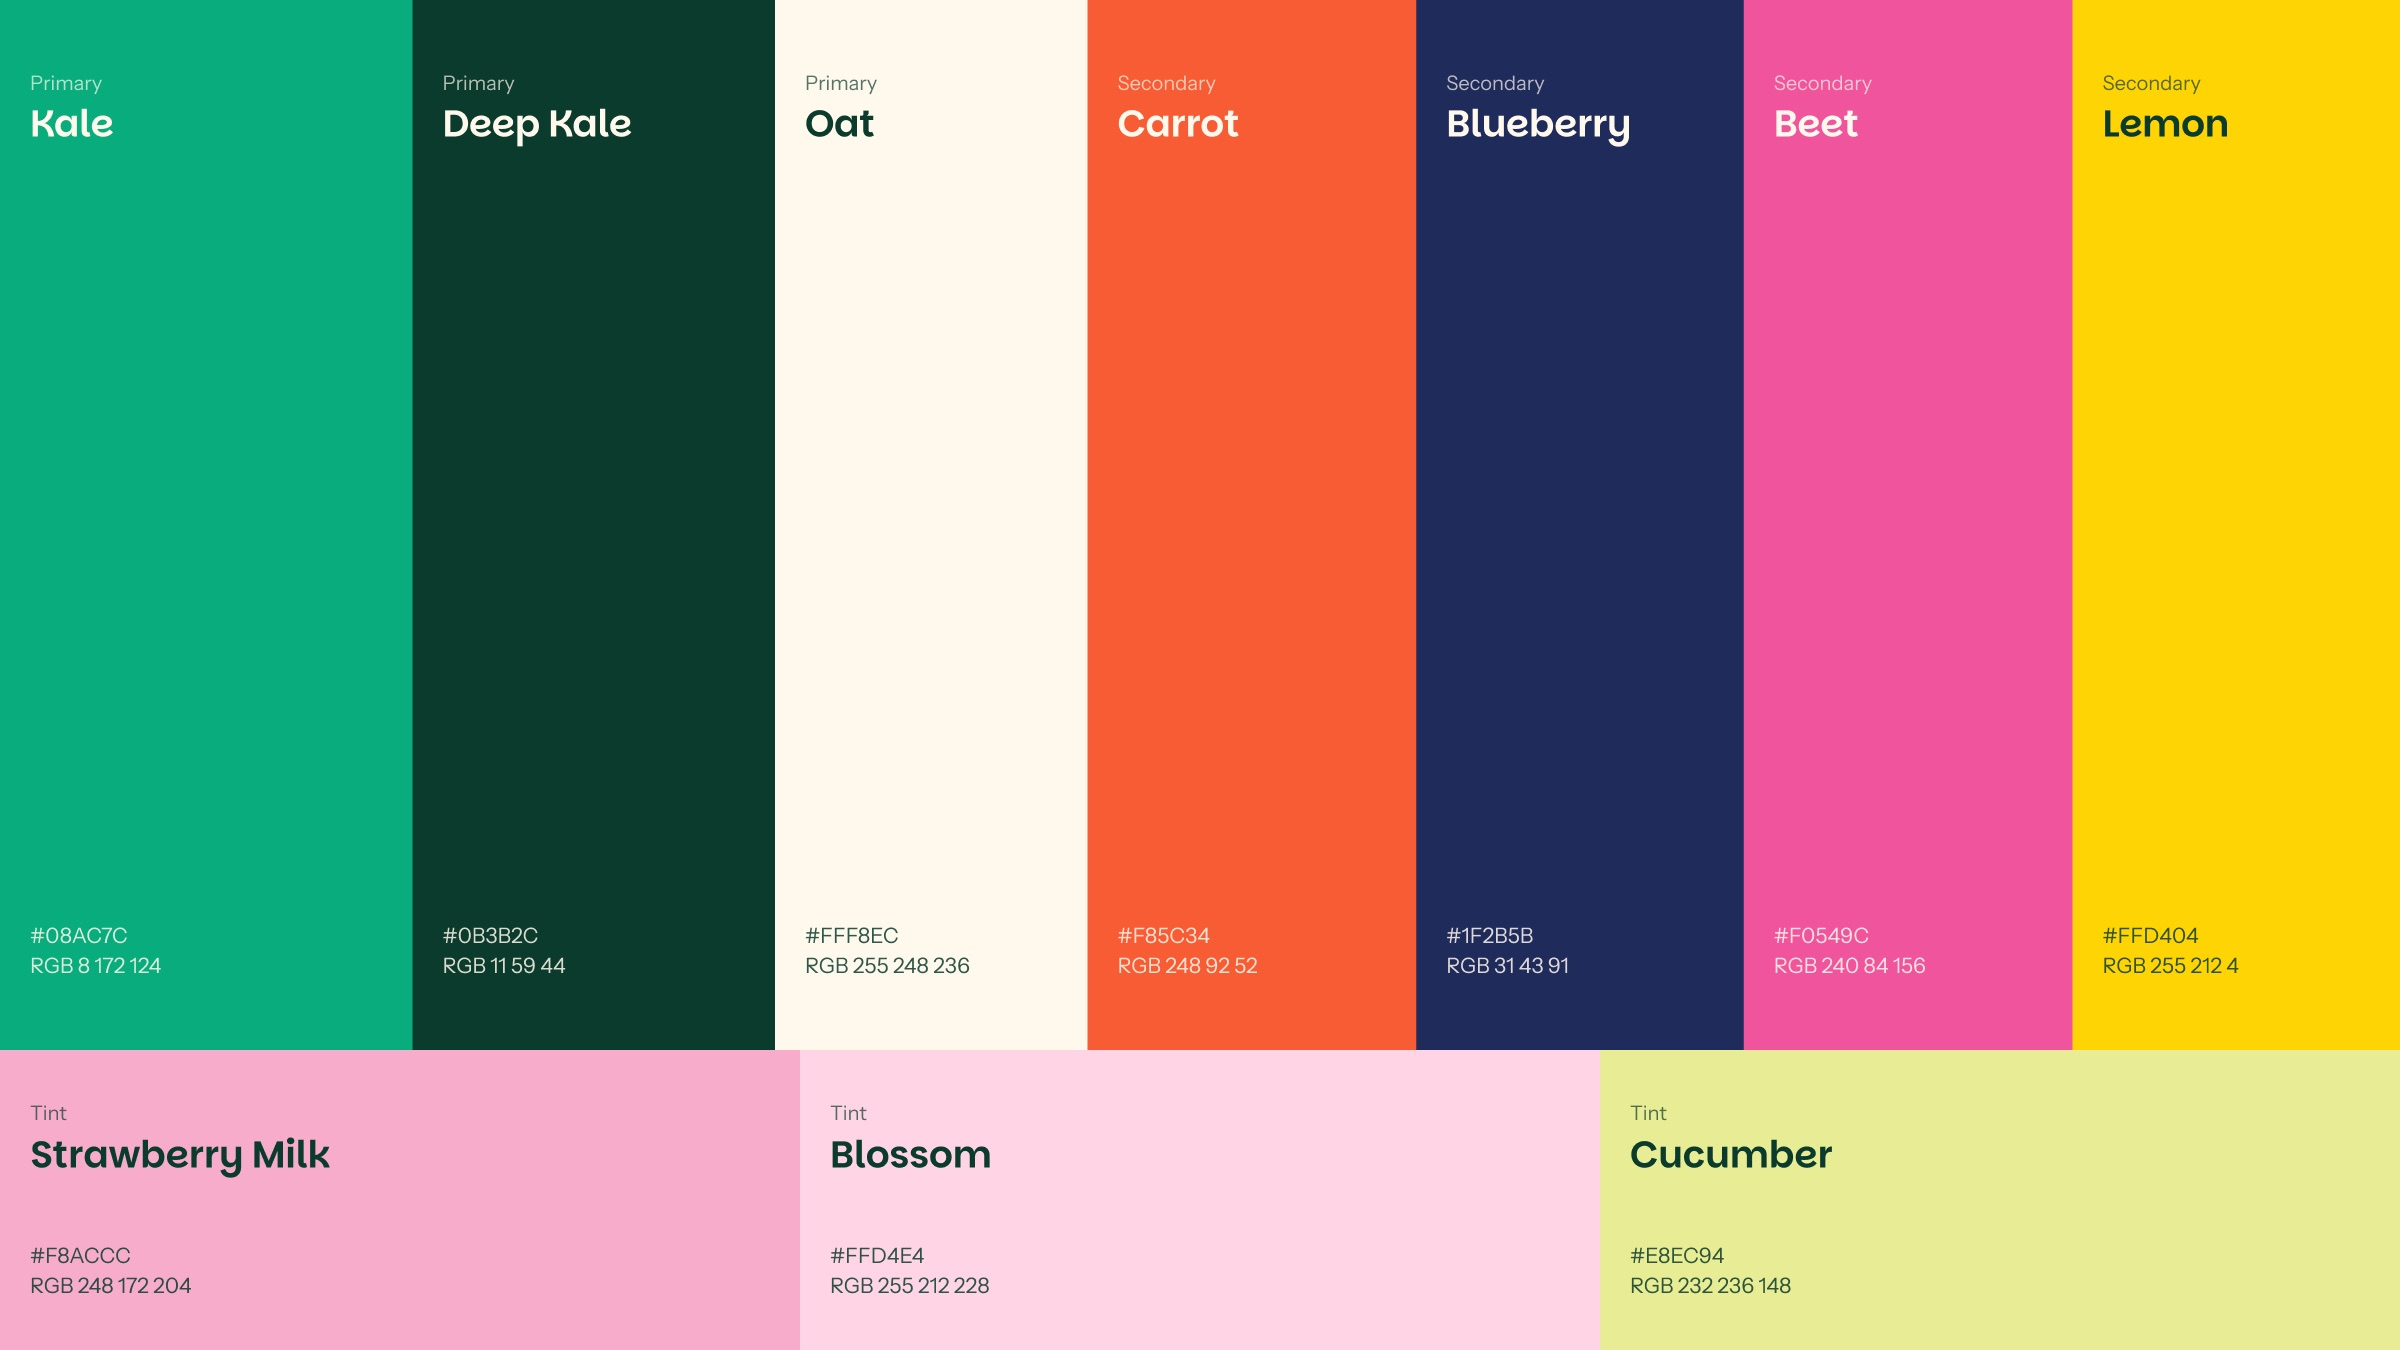
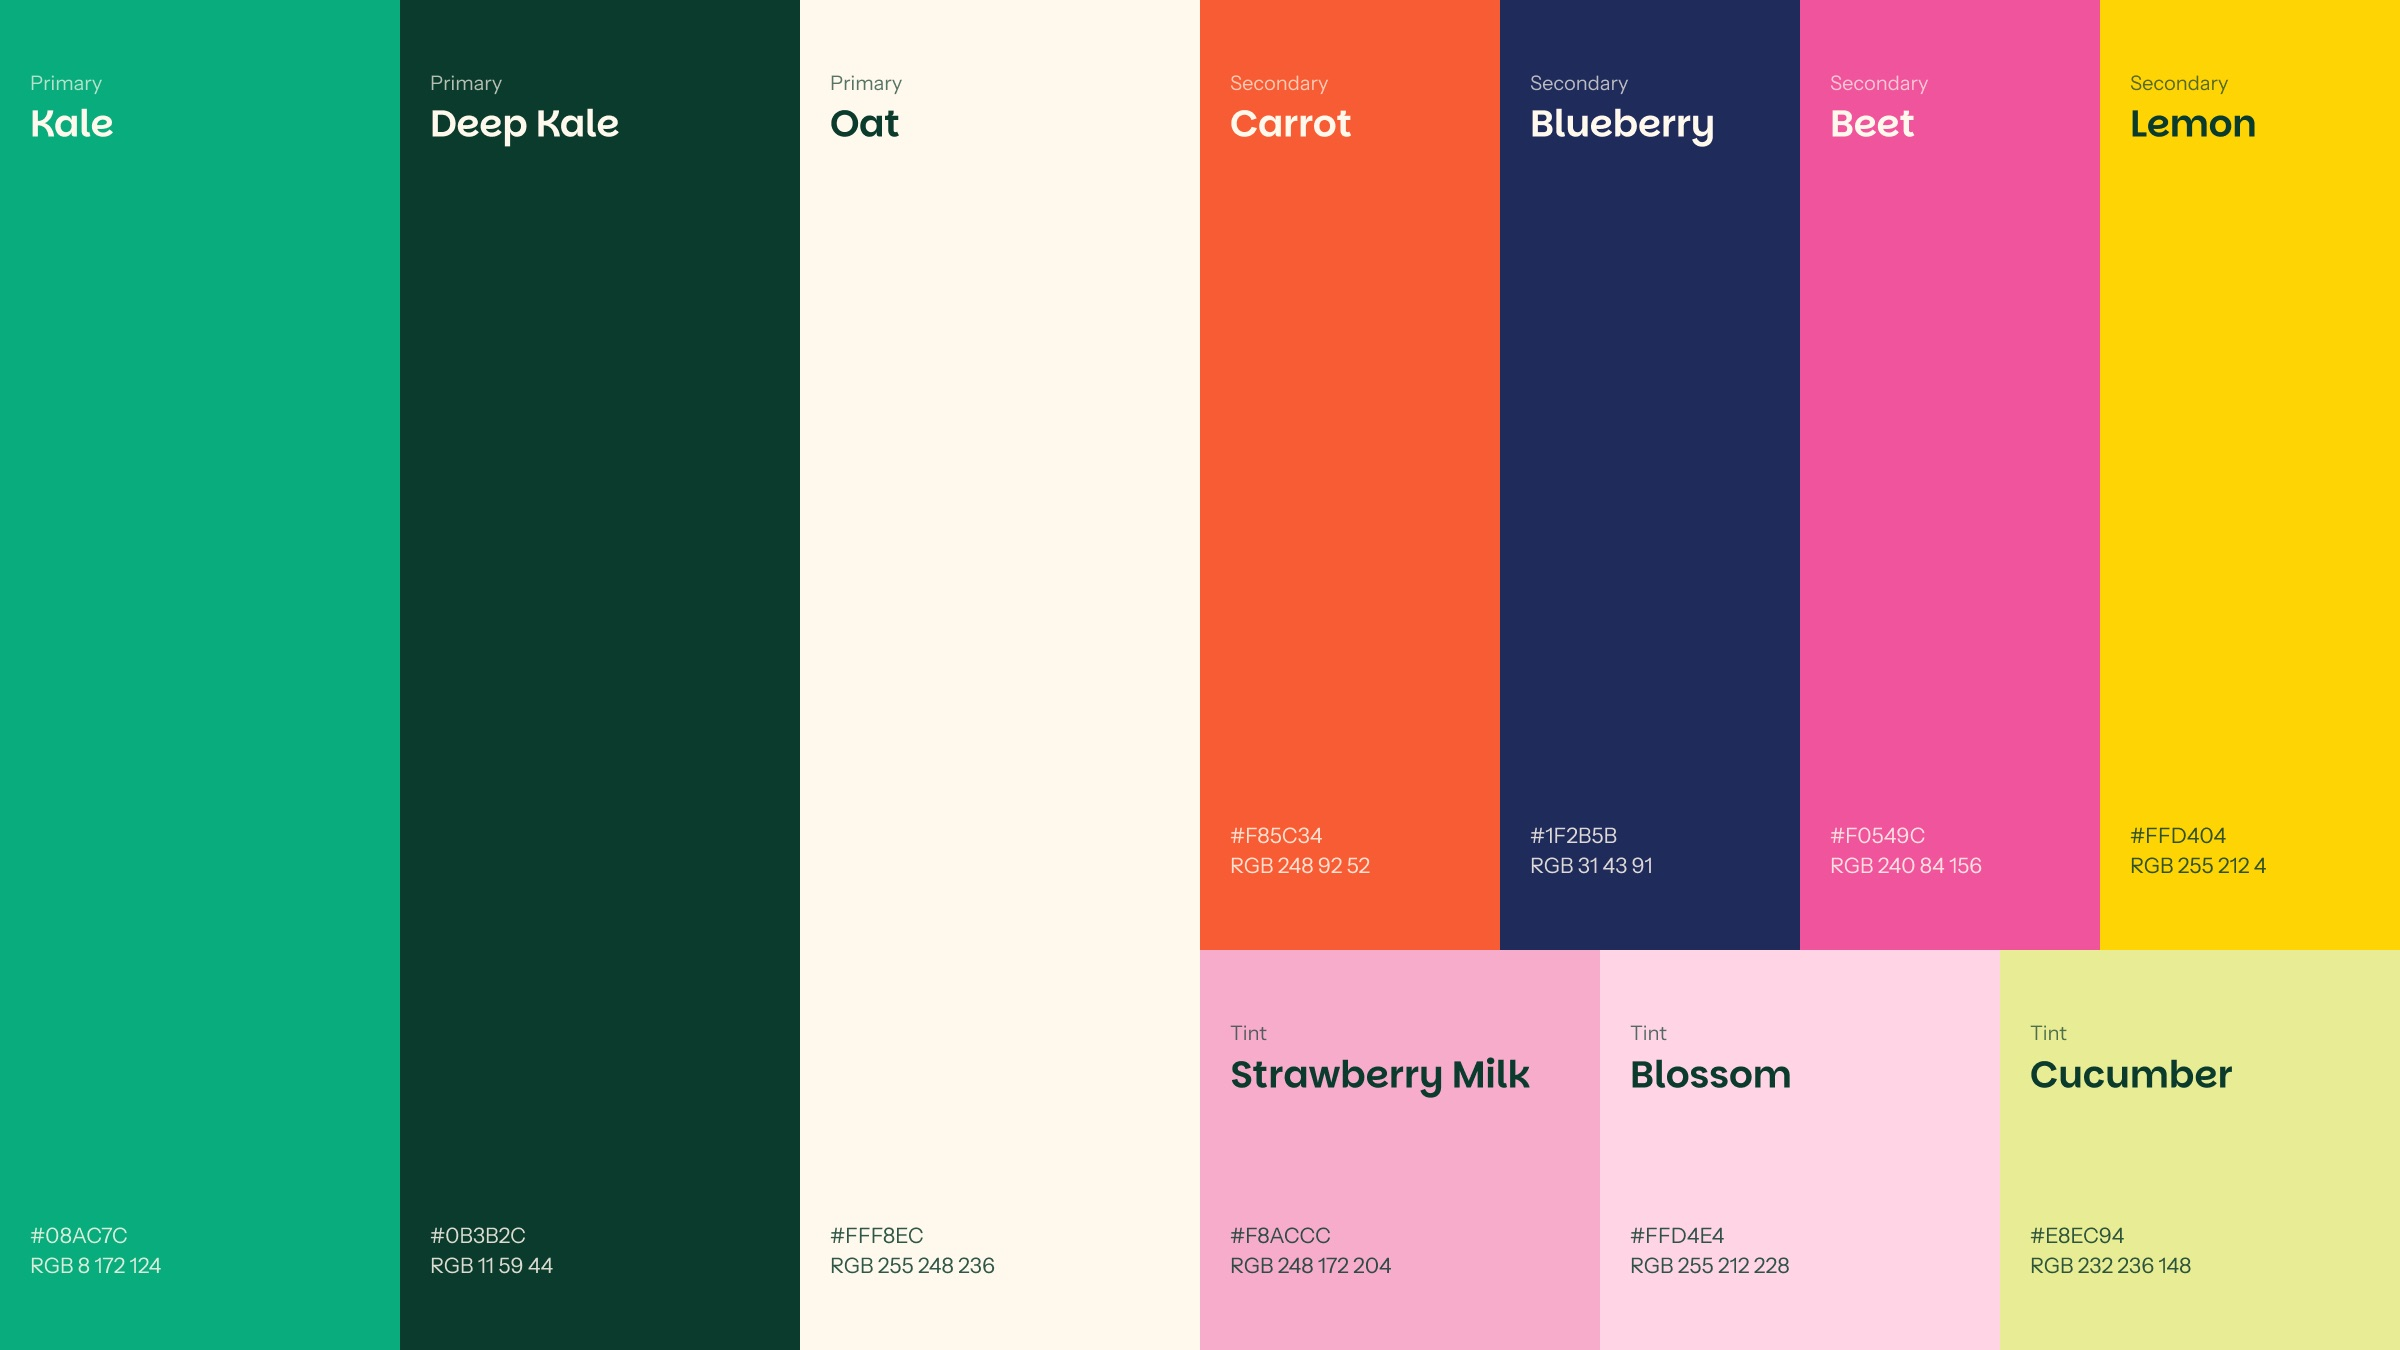
Freshly: three-tier color layout

diff --git a/freshly.html b/freshly.html
@@ -35,7 +35,7 @@
     <img class="shot" src="img/freshly-02.jpg" alt="Freshly" loading="lazy" width="2400" height="1350">
     <img class="shot" src="img/freshly-03.jpg" alt="Freshly" loading="lazy" width="2400" height="1350">
     <img class="shot" src="img/freshly-thumb.jpg" alt="Freshly" loading="lazy" width="2400" height="1350">
-    <img class="shot" src="img/freshly-05.jpg?v=20261115a" alt="Freshly" loading="lazy" width="2400" height="1350">
+    <img class="shot" src="img/freshly-05.jpg?v=20261115b" alt="Freshly" loading="lazy" width="2400" height="1350">
     <img class="shot" src="img/freshly-06.jpg" alt="Freshly" loading="lazy" width="2400" height="1350">
     <img class="shot" src="img/freshly-07.jpg" alt="Freshly" loading="lazy" width="2400" height="1350">
     <img class="shot" src="img/freshly-15.jpg" alt="Freshly" loading="lazy" width="2400" height="1350">
